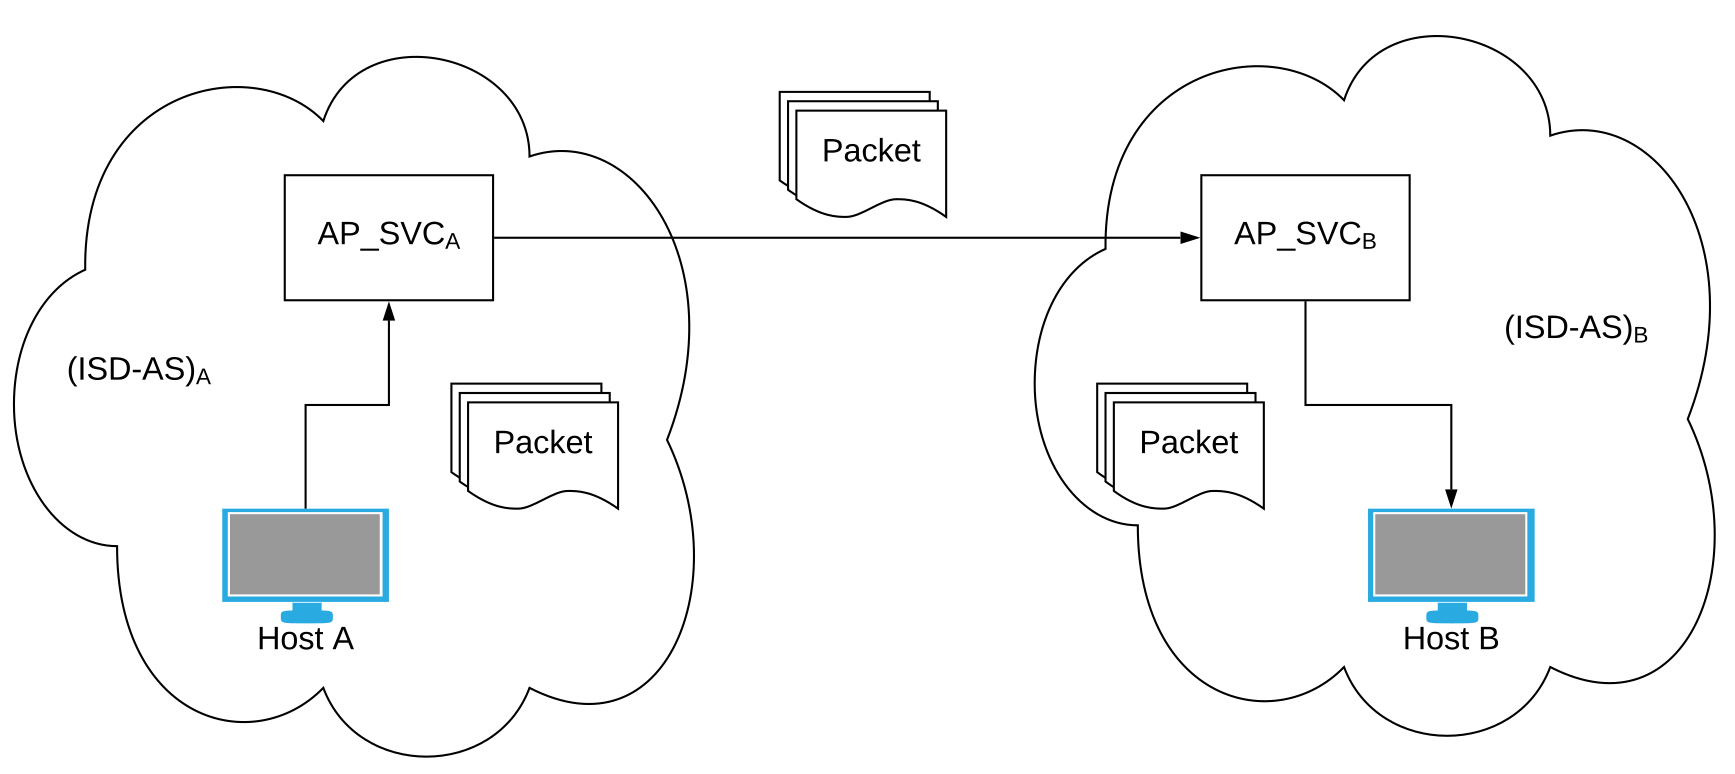
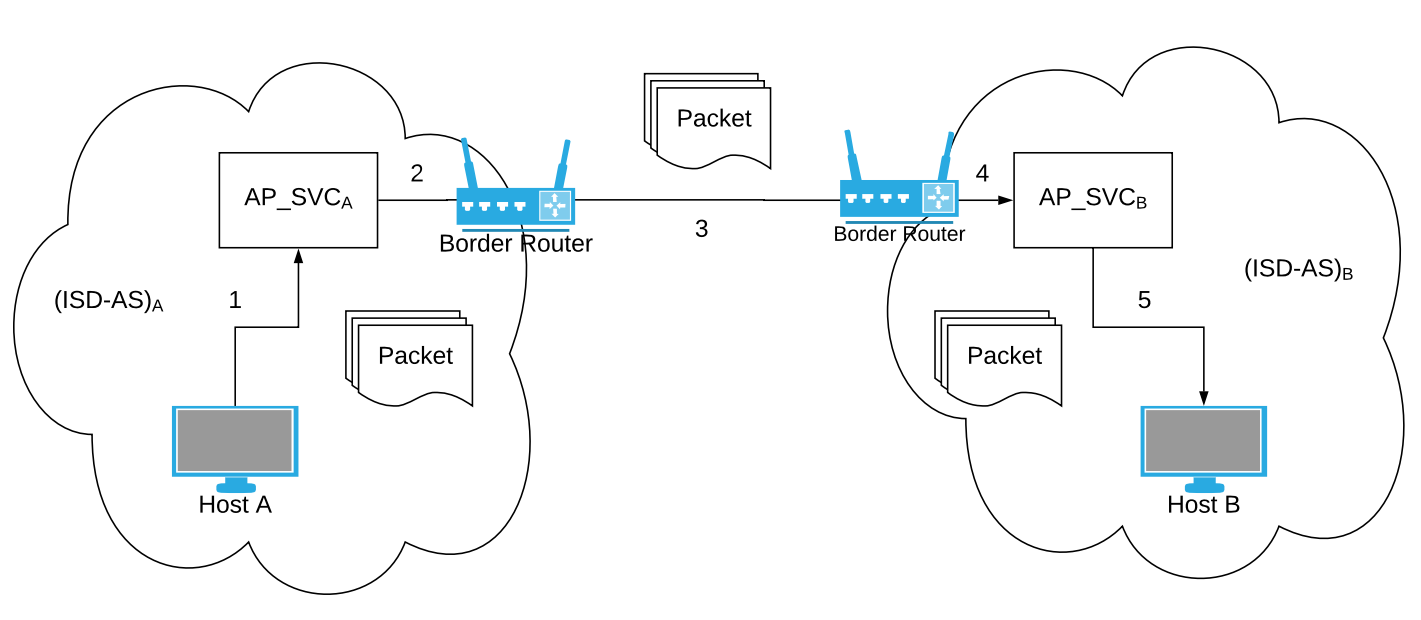
APNA service infra

diff --git a/Chapters/ApnaService.tex b/Chapters/ApnaService.tex
@@ -4,27 +4,21 @@
 
 \label{apna_service}
 
-\section{APNA Service}
-APNA Service (AP\_SVC) is radically different from the past two approaches described in previous chapters (Chap. \ref{apna_overlay}, \ref{address_family}). The main idea behind this approach is to create a new SCION service (like Path Service, Certificate Service) which would be responsible for forwarding APNA packets. The main advantage of this approach instead of modifying the border router and dispatcher to handle APNA packets this new service will take care of APNA packets instead. That makes this approach easily deployable on the current SCIONLab infrastructure without a lot of changes in the existing deployment.
+\section{Main Idea}
+APNA Service (\texttt{AP\_SVC}) approach is radically different from the past two approaches described in previously i.e., APNA over SCION (Chapter \ref{apna_overlay}) and APNA address family (Chapter \ref{address_family}). The main idea behind this approach is to create a new SCION service (like Path Service, Certificate Service) which would be responsible for forwarding APNA packets. The main advantage of this approach instead of modifying the border router and dispatcher to handle APNA packets this new service will take care of APNA packets instead. That makes this approach easily deploy-able on the current SCIONLab infrastructure without a lot of changes in the existing deployment.
 
-APNA service is like a data plane service which is responsible for providing anonymous communication service for SCION. Any packet send to APNA service will get anonymously delivered to the destination. Source APNA service uses the anycast address to deliver the packet to destination APNA service which then forwards it to the appropriate host. Since we are using the anycast address for communication attacker cannot hamper the anonymity guarantees provided by APNA framework. 
-
-\subsection{Communication Overview}
-\begin{figure}[th!!]
-\centering
-\hspace*{-2cm}\includegraphics[scale=0.3]{Figures/svc_arch.png}
-\decoRule
-\caption[Communication overview for APNA Service]{Communication overview for APNA Service architecture}
-\label{fig:srv_comm}
-\end{figure}
-In order to understand how does two parties communication using this new APNA Service. Let's take a simple scenario as presented in Fig.\ref{fig:srv_comm}. In this case Host A which is located in $(ISD-AS)_{A}$ wants to send a packet to Host B located in $(ISD-AS)_{B}$. Host A will forward the packet to APNA Service which is located in its AS and then it will verify the packet MAC. In the previous approach this MAC verification was handled Border Router. If its successful then it will forward that packet to another APNA Service located in the destination $(ISD-AS)_{B}$ using anycast address.
-
-After receiving the packet APNA Service will verify if its a valid destination EphID. If its valid then it will decrypt the EphID to obtain the HostID to forward it to the appropriate host. Otherwise packet will be dropped.
+APNA service is like a data plane service which is responsible for providing anonymous communication service for SCION. Any packet send to APNA service will get anonymously delivered to the destination. Source APNA service uses the anycast address to deliver the packet to destination APNA service which then forwards it to the appropriate host. Since we are using the anycast address for communication attacker cannot hamper the anonymity guarantees provided by APNA framework. APNA service consists of two different services inside it:
+\begin{itemize}
+    \item IP-UDP based service for the host to send packets to it.
+    \item SCION-UDP based service for sending packets to another APNA service.
+\end{itemize}
+We require two different services is because of the limitation of current SCION SNET API as it does not allow sending packets to service inside same \texttt{ISD-AS}.
 
 \subsection{APNA Service Architecture}
+\subsubsection{Design Goals for APNA service}
 APNA Service needs to be highly reliable and efficient and in order to achieve this goal, its designed as a highly concurrent service using go-routines. Each functionality of APNA Service is distributed among different go-routines in order to avoid bottlenecks and use the power of multiprocessing to the full extend. There are multiple go-channels and each channel has a go-routine associated with it and whenever a packet arrives it gets processed by the appropriate go-routine and forwarded to the next channel for further processing.
 
-\subsection{Processing Outgoing Packet by APNA Service}
+\subsection{Processing Outgoing Packet by APNA Service} \label{apna_service:out}
 Firstly APNA Service reads the packet from the \textit{UDP} network socket and transfers that packet to the receive queue. Another go-routine will read packet from this receive queue and try to serialize the packet and if the serialization is successful it will be put into MAC Verification Queue. Otherwise it will be forwarded to error queue and a SCMP message will be sent to the sender of the packet.
 
 If the packet reaches MAC verification queue another go-routine would perform MAC verification for the packet. If the packet has not been tampered then the MAC verification would succeed and forwarded to the forwarding queue. Otherwise packet would be dropped.
@@ -35,29 +29,98 @@ Forwarding queue go-routine would try to de-serialize the packet so that it coul
 \hspace*{-2cm}\includegraphics[scale=0.3]{Figures/svc.png}
 \decoRule
 \caption[APNA Service Outgoing Packet]{Outgoing Packet Processing by APNA Service}
-\label{fig:perf_ephid}
+\label{fig:apna_svc_out}
 \end{figure}
 
-\subsection{Processing Incoming Packet by APNA Service}
+\subsection{Processing Incoming Packet by APNA Service}  \label{apna_service:in}
 \begin{figure}[th!!]
 \centering
 \includegraphics[scale=0.24]{Figures/svc_out.png}
 \decoRule
 \caption[APNA Service Incoming Packet]{Incoming Packet Processing by APNA Service}
-\label{fig:perf_ephid}
+\label{fig:apna_svc_in}
 \end{figure}
+Figure \ref{fig:apna_svc_in} represents a scenario how does a APNA service processes an incoming packet? In the first step APNA service will parse the packet, if successful it will transfer the packet to \texttt{EndhostForwardQueue} else it would be moved to \texttt{ErrorQueue} and eventually gets dropped. \texttt{EndhostForwardQueue} goroutine will decrypt the EphID to obtain HID and after that contact IMS to convert HID to IP address to forward the packet to the destination endhost using a UDP socket.
+
+\subsection{APNA Service Request Packet Format}
+\begin{figure}[th!!]
+\centering
+\includegraphics[scale=0.6]{Figures/apna_svc_request_pkt.pdf}
+\decoRule
+\caption[APNA Service Incoming Packet]{Incoming Packet Processing by APNA Service}
+\label{fig:apna_svc_request_pkt}
+\end{figure}
+APNA service is a \texttt{UDP} based service and the host which want to use APNA service they need to send packets in the certain format so that APNA service can construct a SCION-APNA packet out of it and send it to the service on the destination side. This packet structure contains lots of information which will be present inside SCION header but since its a based service it does not have all that information. SCION packet will be constructed using this packet.
+
+This is can be simplified if SNET API allows host to send packet to service using its anycast service address. This issues has been reported to SCION team and they will take care of it in the near future. 
 
 \section{Modifications in the current infrastructure}
+There are various reason which attribute for adjustment in the current SCION infrastructure to introduce a new service address for APNA service.
+
+\begin{itemize}
+    \item Since there is no service discovery implemented inside SCION currently so all the application which needs to perform translation from service address to overlay IP address will need modifications.
+    \item SCIOND needs to extended to be able to translate service address to IP address for the endhosts.
+    \item Userspace SNET APIs need to changed to send packets to APNA service instead of next hop border router.
+\end{itemize}
+
+\subsection{Border Router}
+Unlike previous approach border routers do not need to be changed as significantly. As most of the functionality related verifying packet authenticity is offloaded to APNA service.
+
+The only change that is required in the BR is at the destination BR packet processing to handle new APNA service address (\texttt{SvcAP}). Border routers usually find the IP address of the service by parsing the \texttt{topology.json} and once its updated it can handle the new service address. Listing \ref{code:apna_svc} shows the portion that needs to be added inside border router's \texttt{topology.json}
+
+\begin{code}
+\captionof{listing}{Extension for BR topology.json}
+\inputminted[frame=lines, framesep=2mm, baselinestretch=1.2, fontsize=\footnotesize, linenos]{json}{code_snippets/apnasvc.json} \label{code:apna_svc}
+\end{code}
+
 \subsection{SNET}
 There is a minor modification required in the existing snet implementation. First and foremost a new network string called "apna" needs to be introduced. Currently only one network is supported namely "udp4" but using this new network string we can modify the read and write functions to send/accept packets to/from APNA Service instead of directly forwarding it to border router or dispatcher.
+
 \subsection{SCIOND}
-SCIOND needs to be modified to resolve APNA Service Address (AP\_SVC)
-\subsection{Border Router}
+As discussed in Section \ref{background:sciond} \texttt{SCIOND} is responsible for service address resolution as well. Thus \texttt{SCIOND} needs to be extended for the same reason for new APNA service. All the endhost use the IP address provided by SCIOND to send packets and receive packets from APNA service.
+
+Currently there are two different implementation of SCIOND Python and Golang. But in the production mostly Python version is in use but in order to be ready for future versions of SCION both implementation needs to be extended.
+
+\texttt{CapnProto} specification for SCIOND also needs to be extended to introduce new \texttt{SvcAP} address type. Anycast address assigned to APNA service is (0x0004). 
+
 \subsection{SCION-APNA Packet Structure}
+Figure \ref{fig:apna_svc_pkt} represents the packet structure used by APNA service to communicate with each other. It encapsulates the APNA packet inside it. We need add port information inside APNA packet since there is no port information is required to forward the packet to the endhost.
 \begin{figure}[th!!]
 \centering
 \noindent
 \makebox[\textwidth]{\includegraphics[scale=0.6]{Figures/apna_svc.pdf}}
 \decoRule
 \caption[APNA packet structure using SvcAP]{APNA packet structure  using SvcAP for forwarding APNA packets}
+\label{fig:apna_svc_pkt}
 \end{figure}
+
+
+\section{Data Communication}
+\begin{figure}[th!!]
+\centering
+\hspace*{-1cm}\includegraphics[scale=0.35]{Figures/svc_arch.png}
+\decoRule
+\caption[Communication overview for APNA Service]{Communication overview for APNA Service architecture}
+\label{fig:srv_comm}
+\end{figure}
+Figure \ref{fig:srv_comm} represents a simple scenario in which two host can communicate with each other using this new APNA service. In this case Host A which is located in \texttt{(ISD-AS)}$_A$ wants to send a packet to Host B located in \texttt{(ISD-AS)}$_B$. It can be broken down into five steps as show in the figure. 
+
+\subsection{Part One: Establish comm. and send packet to APNA service}
+Initially the host needs to initialize the SCION networking context and use DNS service to obtain the EphID associated with Host B. After that Host A creates a APNA service request packet as described in Figure \ref{fig:apna_svc_request_pkt} and using the SNET's API it forwards the packet to APNA service in the same \texttt{ISD-AS}. 
+
+\subsection{Part Two: APNA service process packet and forward it to BR}
+After receiving the packet APNA service processes the packet as described in Section \ref{apna_service:out} and using the path service finds the path to APNA service at the destination host. After that it can simply construct a new SCION packet by de-capsulating APNA packet from APNA service packet and use that as the payload for the newly constructed SCION packet as shown in Figure \ref{fig:apna_svc_pkt}. 
+
+\subsection{Part Three: Intra domain routing among BR}
+Border routers can forwards the APNA service packet just like a normal SCION service packet using the path information present inside the packet.
+
+\subsection{Part Four: Destination BR forward packet to APNA service}
+At the destination border router 
+
+\subsection{Part Fifth: APNA service delivering packet to destination host}
+
+In order to understand how does two parties communication using this new APNA Service. Let's take a simple scenario as presented in Fig.\ref{fig:srv_comm}. In this case Host A which is located in \texttt{(ISD-AS)}$_A$ wants to send a packet to Host B located in \texttt{(ISD-AS)}$_B$. Host A will forward the packet to APNA Service which is located in its AS and then it will verify the packet MAC. In the previous approach this MAC verification was handled Border Router. If its successful then it will forward that packet to another APNA Service located in the destination \texttt{(ISD-AS)}$_B$ using anycast address.
+
+After receiving the packet APNA Service will verify if its a valid destination EphID. If its valid then it will decrypt the EphID to obtain the HostID to forward it to the appropriate host. Otherwise packet will be dropped.
+
+\section{Drawbacks}

diff --git a/Chapters/Background.tex b/Chapters/Background.tex
@@ -47,7 +47,7 @@ More specifically, for outgoing packets, the QUIC stack and UDP applications sen
 
 For incoming packets, the dispatcher decapsulates the overlay header and parses the SCION header to identify the transport protocol. The dispatcher processes packets differently for different transport protocol. The dispatcher processes packets differently for different transport protocols. The dispatcher parses the identifier associated with the incoming packet and delivers the packet to the application that is registered for that identifier.
 
-\section{SCION Daemon (SCIOND)}
+\section{SCION Daemon (SCIOND)} \label{background:sciond}
 SCIOND is a background process running on endhosts with the goals of
 \begin{itemize}
     \item handling SCION control-plane messages, and
